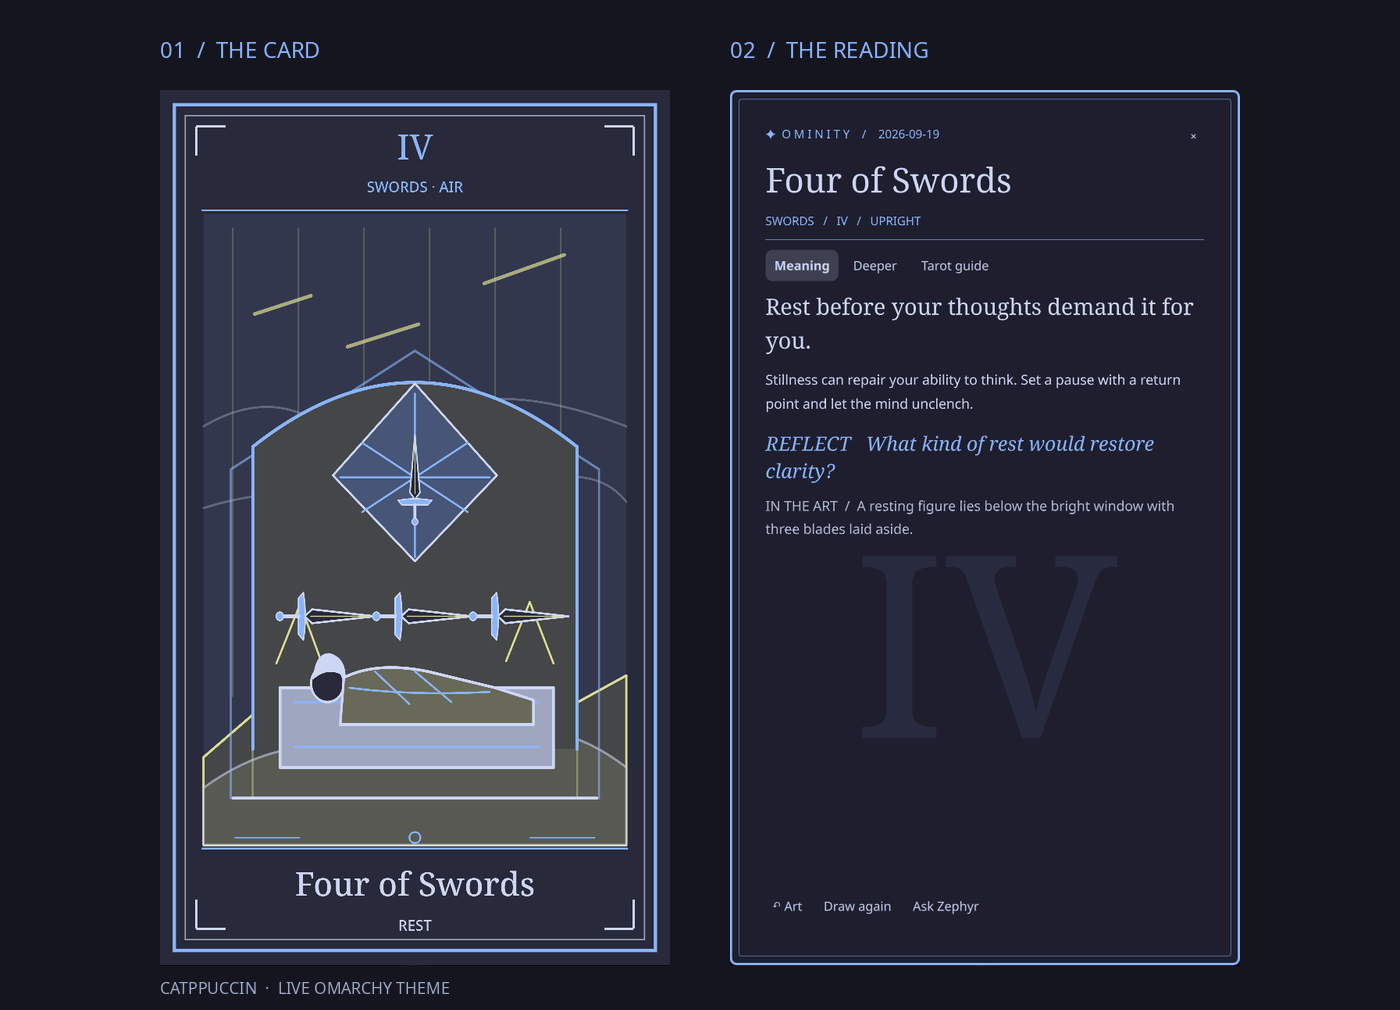
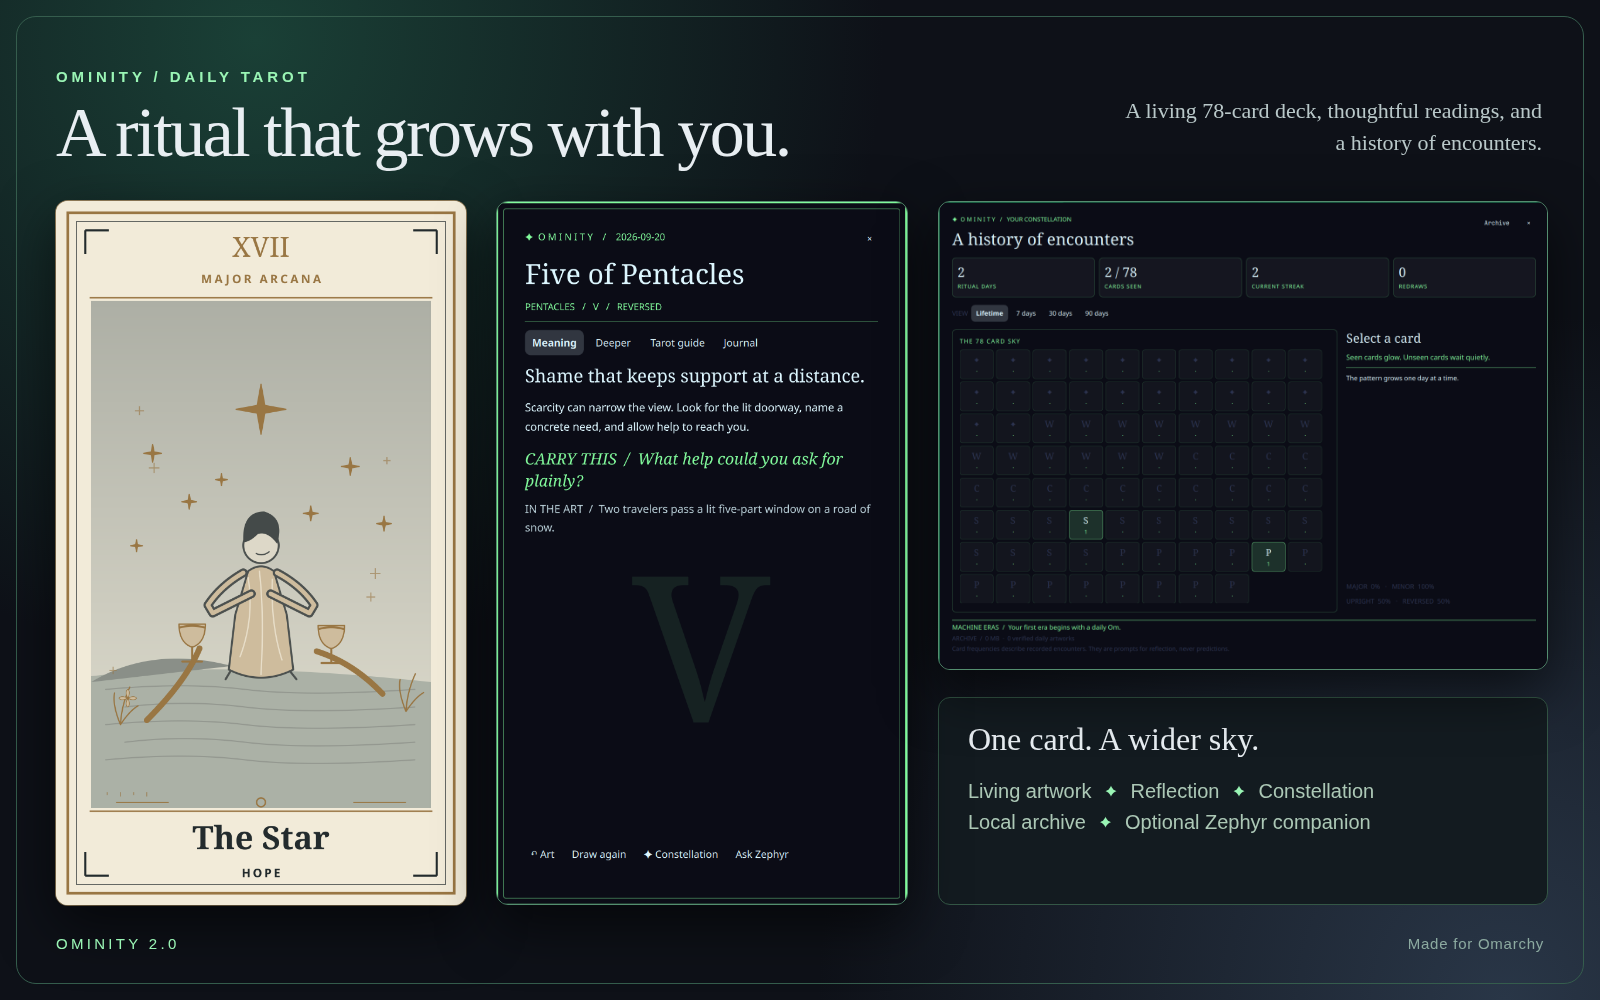
Refresh Ominity 2.0 marketplace preview

diff --git a/README.md b/README.md
@@ -1,6 +1,6 @@
 # Ominity
 
-![Ominity's Four of Swords card and reading side in the live Catppuccin theme](preview.png)
+![Ominity 2.0 preview with The Star artwork, a daily reading, and the Constellation view](preview.png)
 
 A daily tarot ritual for Omarchy. Click **✦** in the bar to draw a card. The artwork takes the whole stage; click the card to turn it over for its meaning, today's lens and symbol, a reflection prompt, a deeper reading, and a guide to tarot. Click outside the card or press **Esc** to put it away. Right-click the bar glyph to toggle a compact desktop card.
 
